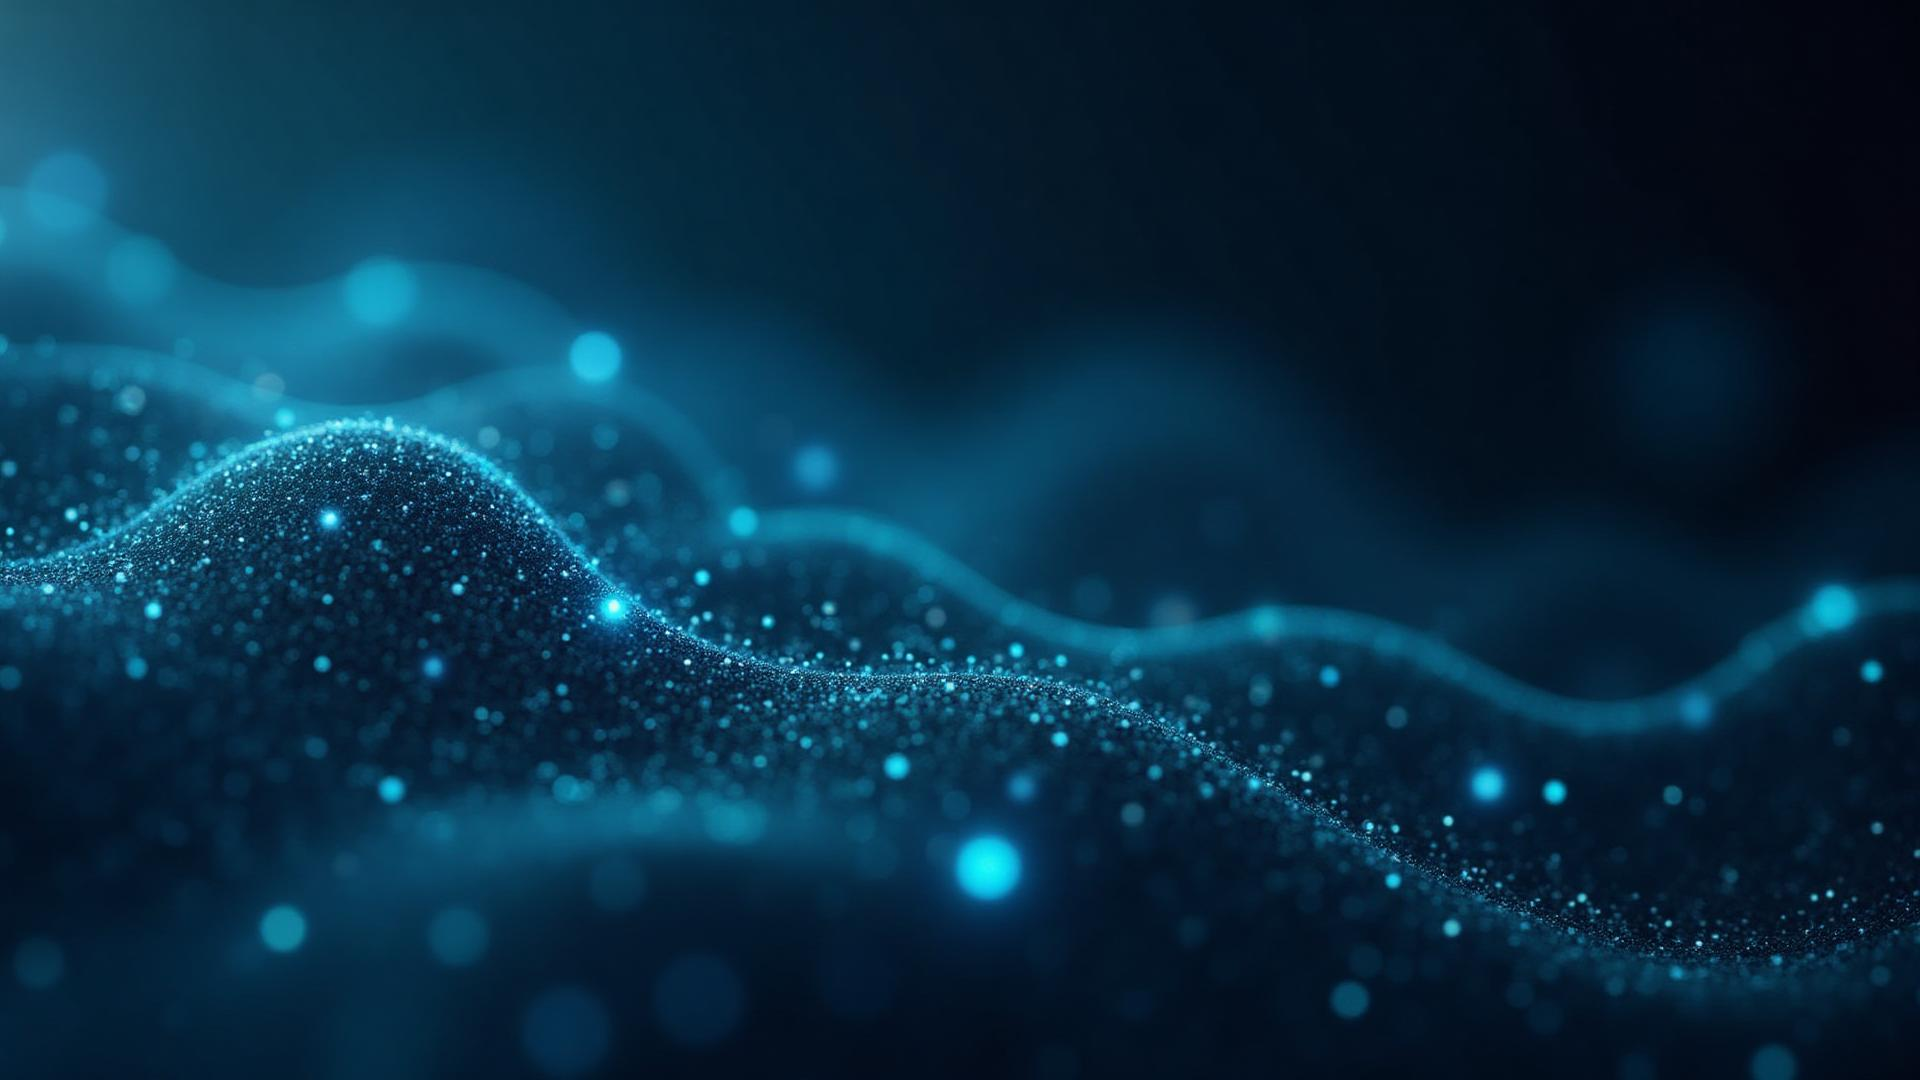
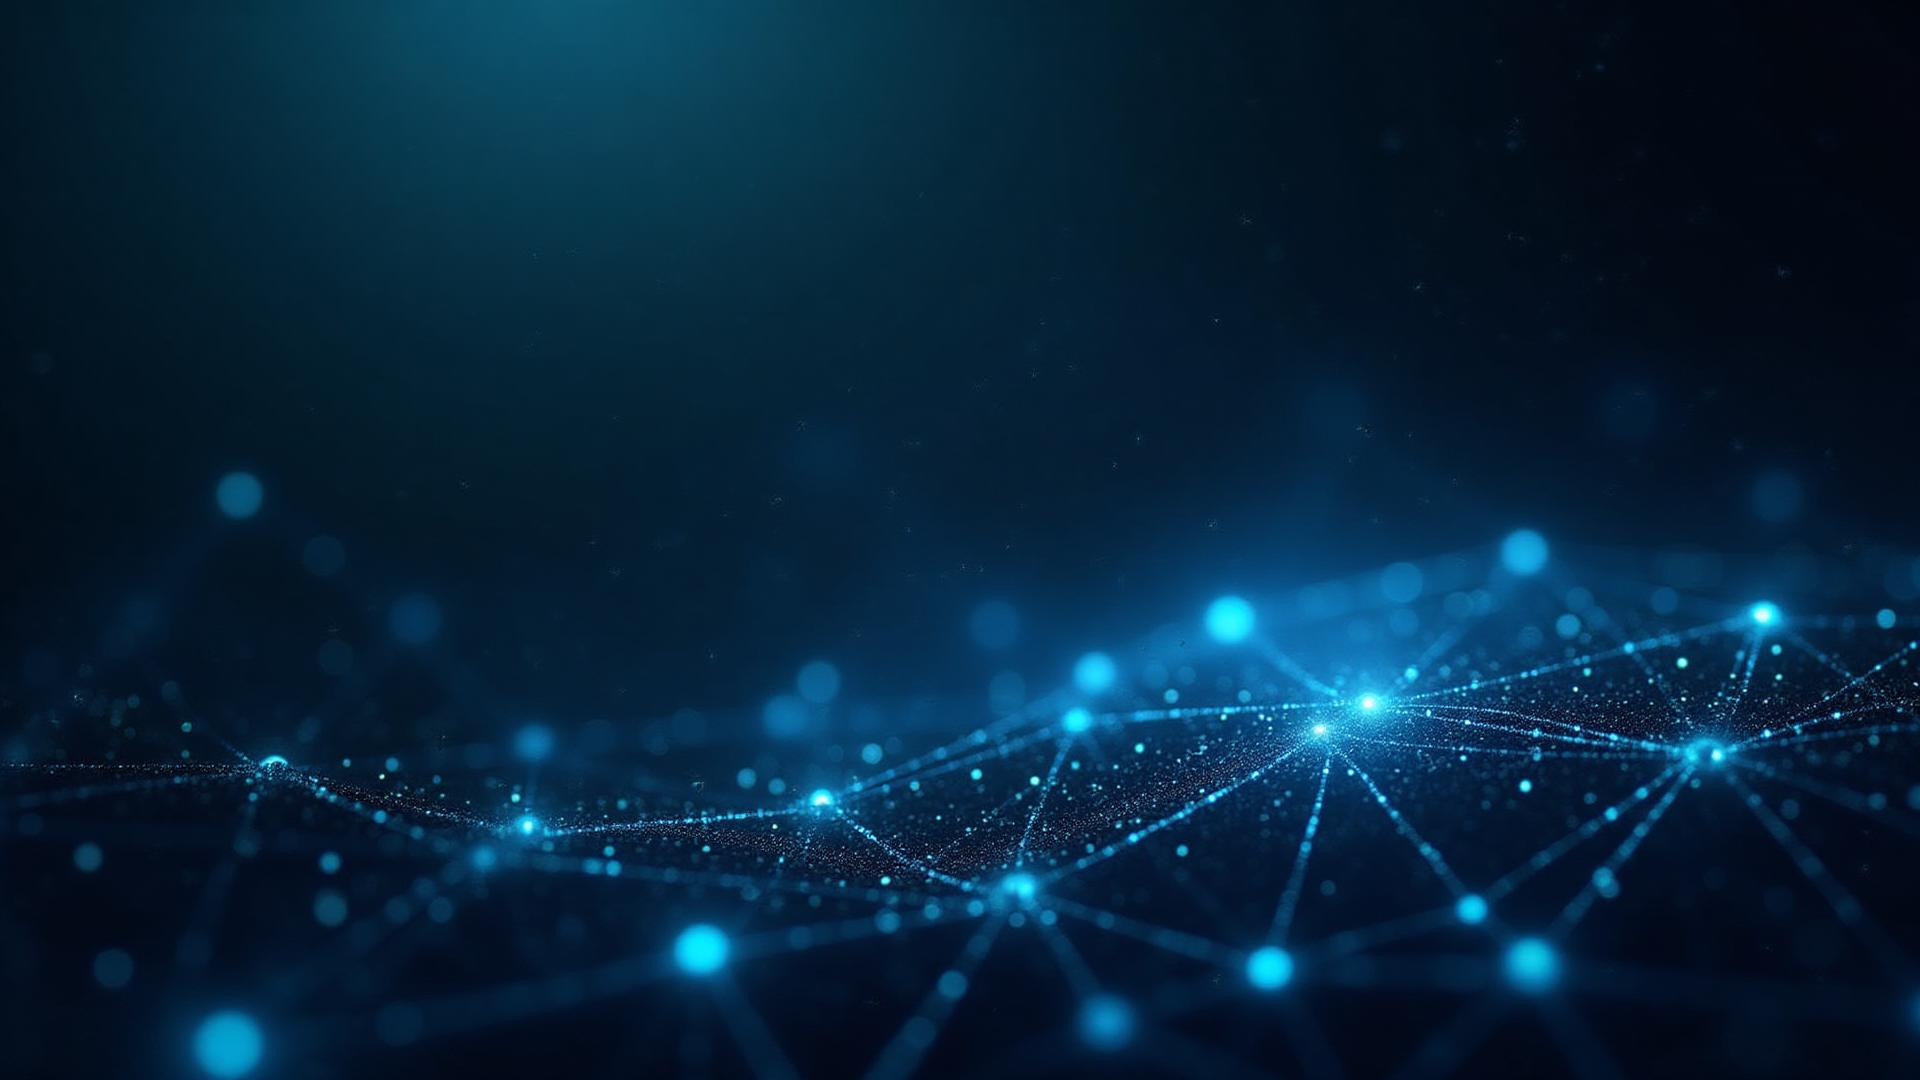
Refine website aesthetics
Adjust color palette to be darker and propose a new hero banner image.

diff --git a/src/index.css b/src/index.css
@@ -81,41 +81,42 @@
   }
 
   .dark {
-    --background: 222.2 84% 4.9%;
+    --background: 222 84% 2%;
     --foreground: 210 40% 98%;
 
-    --card: 222.2 84% 4.9%;
+    --card: 222 84% 3%;
     --card-foreground: 210 40% 98%;
 
-    --popover: 222.2 84% 4.9%;
+    --popover: 222 84% 3%;
     --popover-foreground: 210 40% 98%;
 
-    --primary: 210 40% 98%;
-    --primary-foreground: 222.2 47.4% 11.2%;
+    --primary: 217 91% 60%;
+    --primary-foreground: 222 84% 2%;
+    --primary-glow: 217 100% 70%;
 
-    --secondary: 217.2 32.6% 17.5%;
+    --secondary: 222 47% 8%;
     --secondary-foreground: 210 40% 98%;
 
-    --muted: 217.2 32.6% 17.5%;
-    --muted-foreground: 215 20.2% 65.1%;
+    --muted: 222 47% 8%;
+    --muted-foreground: 215 20% 50%;
 
-    --accent: 217.2 32.6% 17.5%;
-    --accent-foreground: 210 40% 98%;
+    --accent: 217 91% 60%;
+    --accent-foreground: 222 84% 2%;
 
-    --destructive: 0 62.8% 30.6%;
+    --destructive: 0 63% 31%;
     --destructive-foreground: 210 40% 98%;
 
-    --border: 217.2 32.6% 17.5%;
-    --input: 217.2 32.6% 17.5%;
-    --ring: 212.7 26.8% 83.9%;
-    --sidebar-background: 240 5.9% 10%;
-    --sidebar-foreground: 240 4.8% 95.9%;
-    --sidebar-primary: 224.3 76.3% 48%;
-    --sidebar-primary-foreground: 0 0% 100%;
-    --sidebar-accent: 240 3.7% 15.9%;
-    --sidebar-accent-foreground: 240 4.8% 95.9%;
-    --sidebar-border: 240 3.7% 15.9%;
-    --sidebar-ring: 217.2 91.2% 59.8%;
+    --border: 222 47% 12%;
+    --input: 222 47% 8%;
+    --ring: 217 91% 60%;
+    --sidebar-background: 222 84% 2%;
+    --sidebar-foreground: 240 5% 90%;
+    --sidebar-primary: 217 91% 60%;
+    --sidebar-primary-foreground: 222 84% 2%;
+    --sidebar-accent: 222 47% 8%;
+    --sidebar-accent-foreground: 240 5% 90%;
+    --sidebar-border: 222 47% 12%;
+    --sidebar-ring: 217 91% 60%;
   }
 }
 
